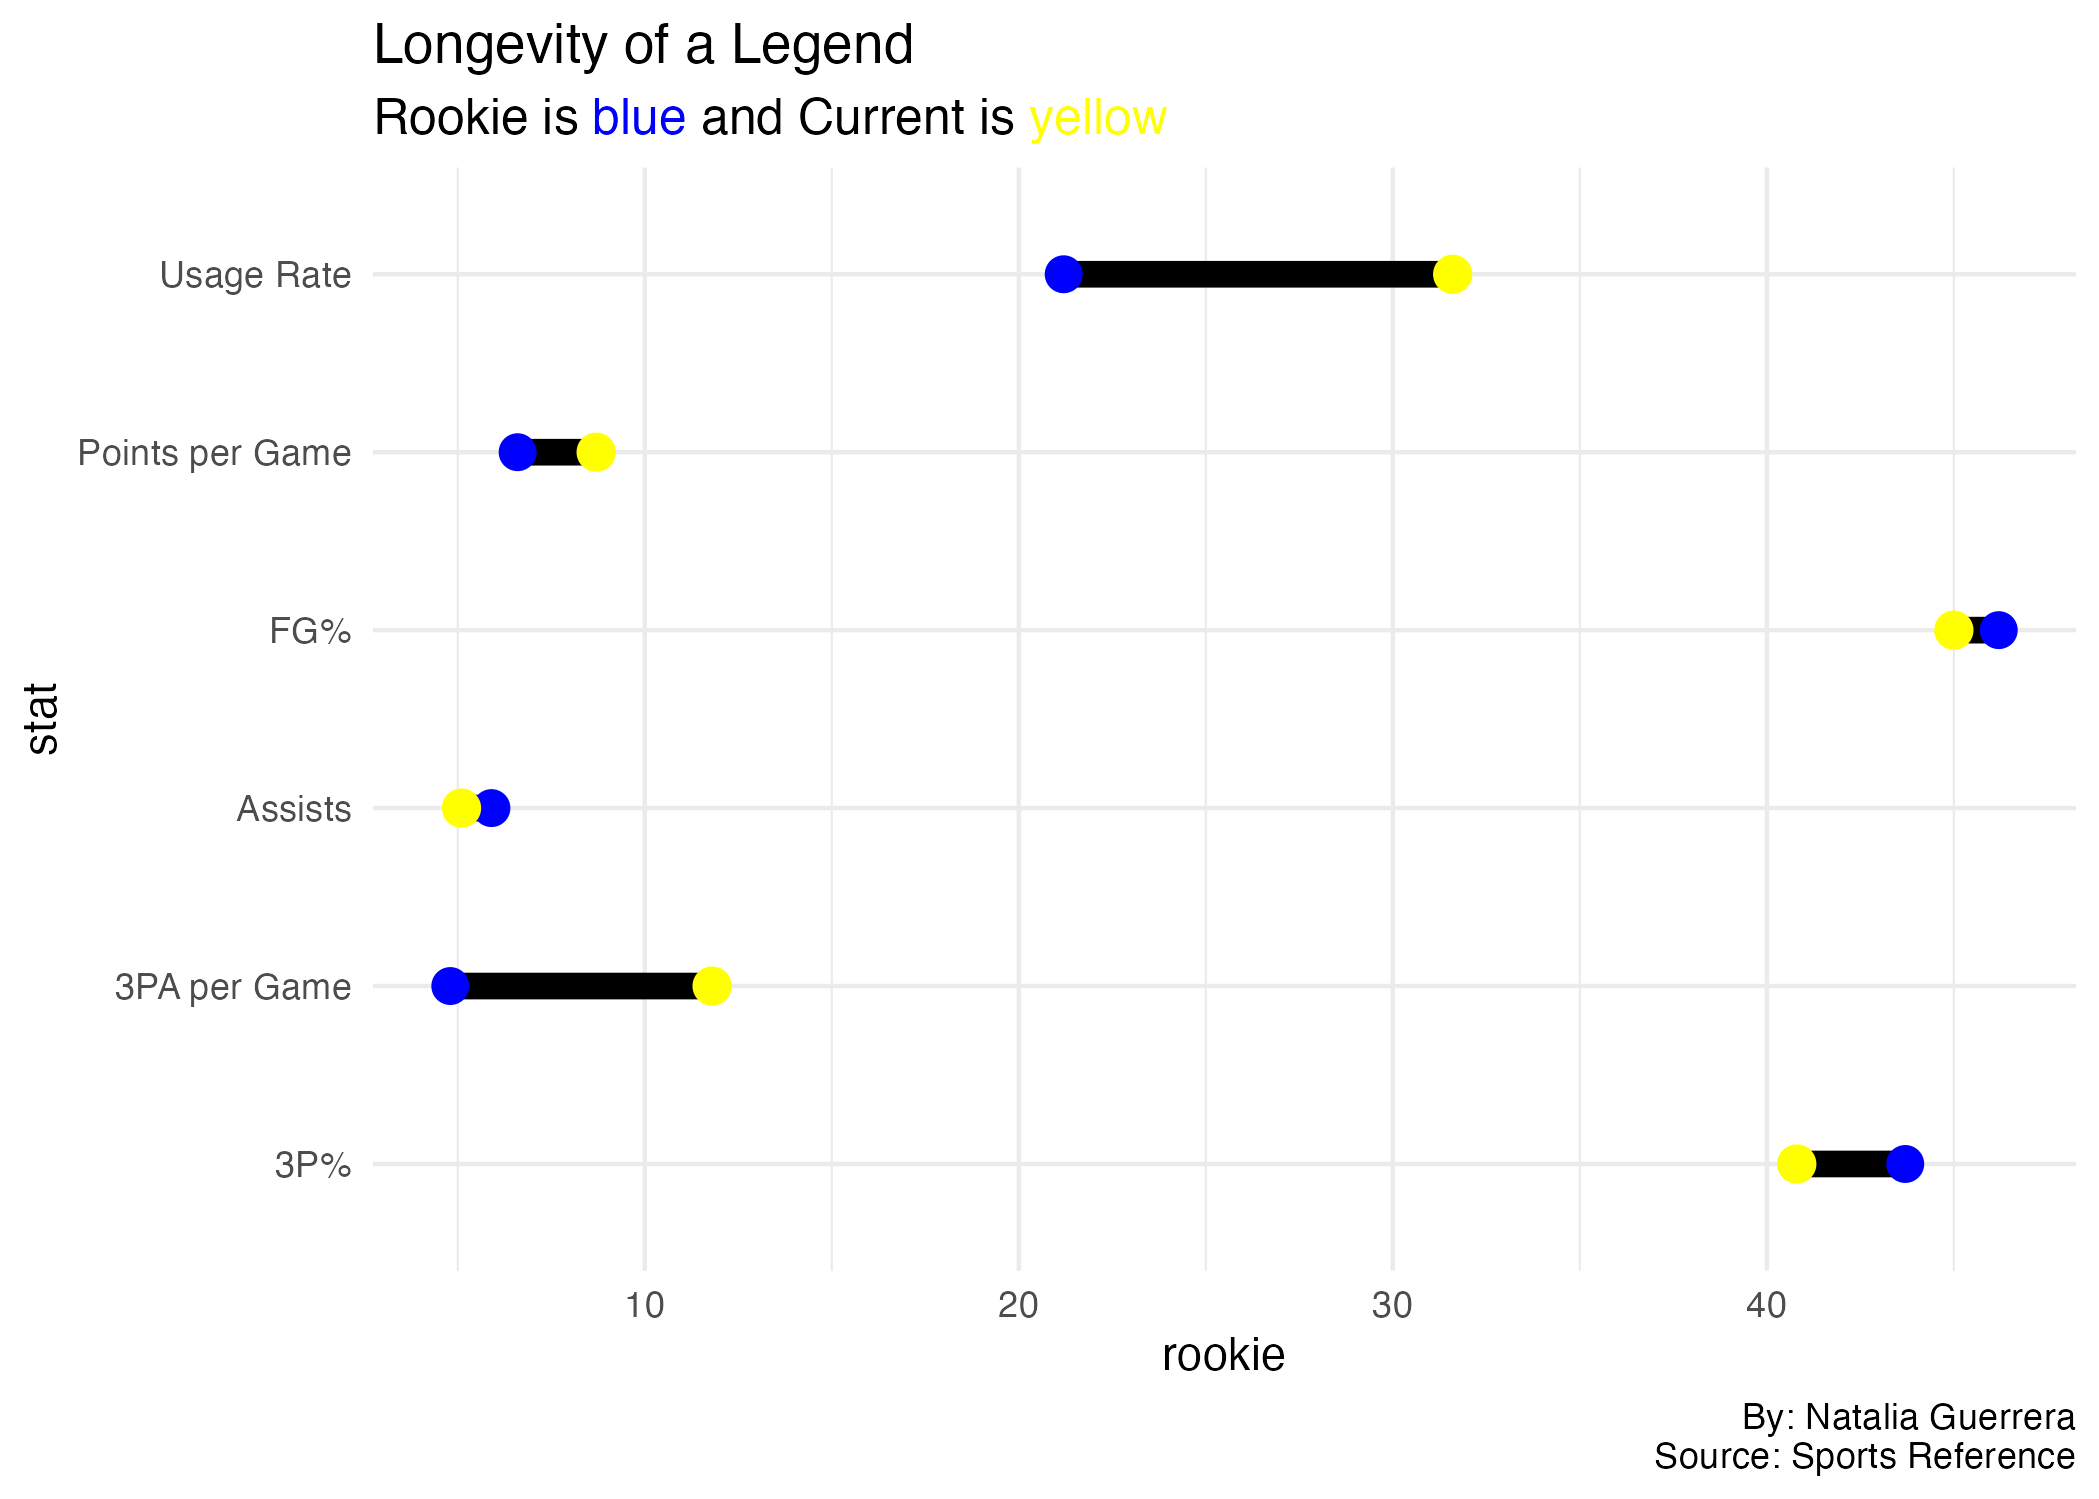
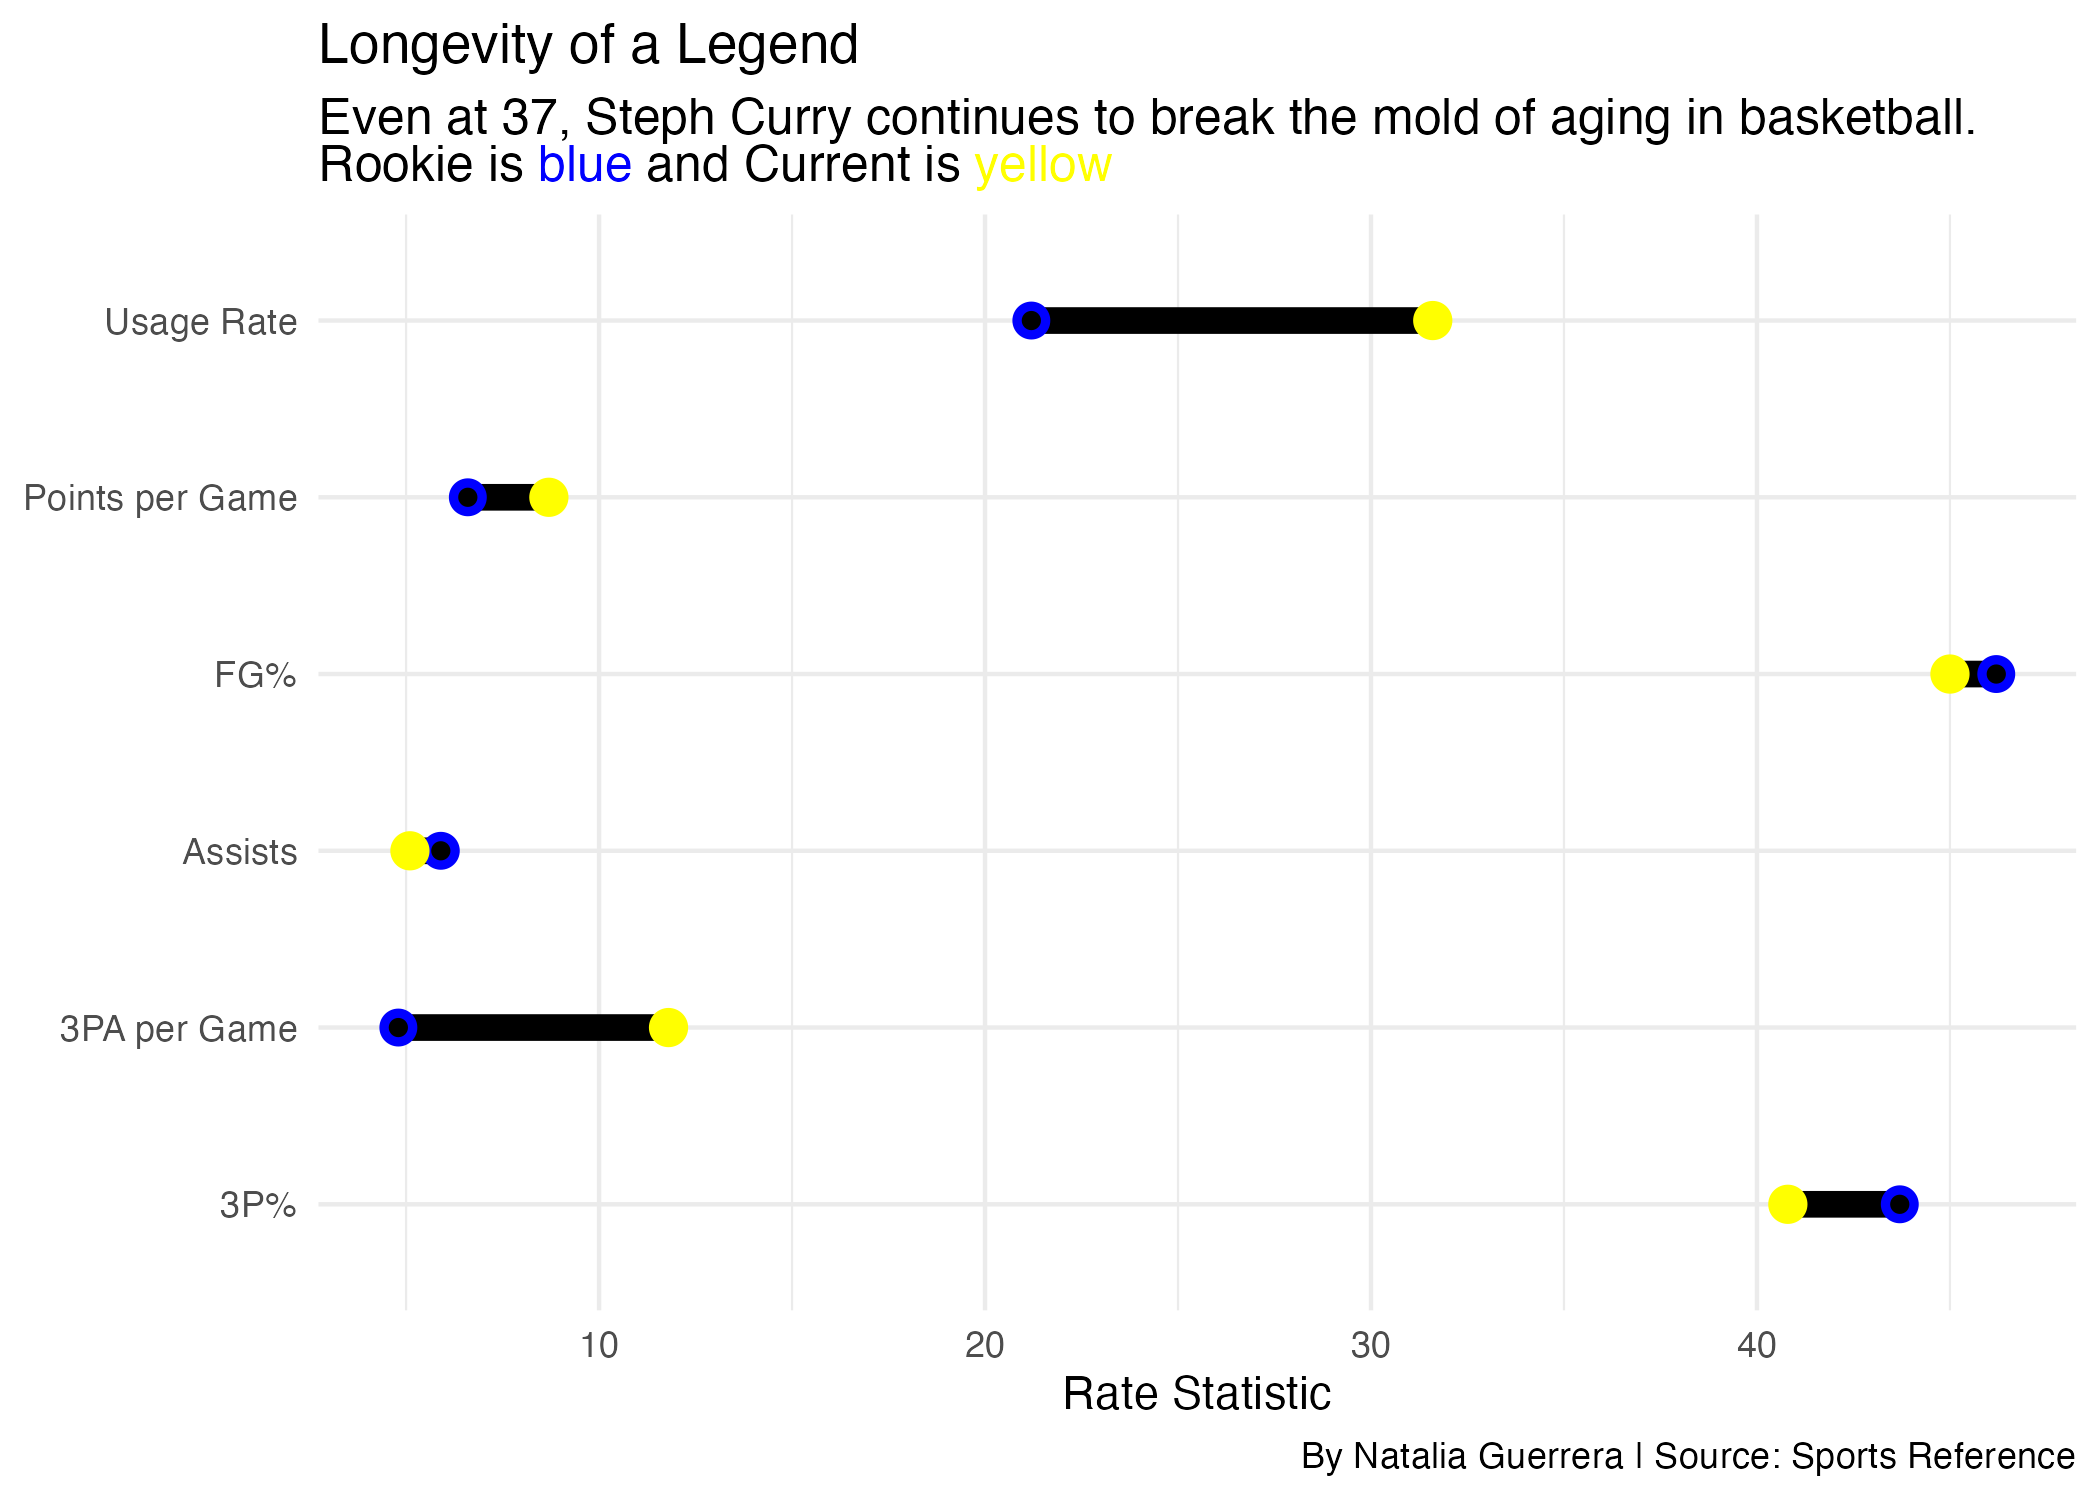
made change

diff --git a/posts/nfl-nba-combine-athlete/index.html b/posts/nfl-nba-combine-athlete/index.html
@@ -209,15 +209,18 @@ pre > code.sourceCode > span > a:first-child::before { text-decoration: underlin
 <span id="cb1-13"><a href="#cb1-13" aria-hidden="true" tabindex="-1"></a>                <span class="at">size =</span> <span class="dv">3</span>,</span>
 <span id="cb1-14"><a href="#cb1-14" aria-hidden="true" tabindex="-1"></a>                <span class="at">colour_x =</span> <span class="st">"blue"</span>,</span>
 <span id="cb1-15"><a href="#cb1-15" aria-hidden="true" tabindex="-1"></a>                <span class="at">colour_xend =</span> <span class="st">"yellow"</span>) <span class="sc">+</span></span>
-<span id="cb1-16"><a href="#cb1-16" aria-hidden="true" tabindex="-1"></a>  <span class="fu">labs</span>(</span>
-<span id="cb1-17"><a href="#cb1-17" aria-hidden="true" tabindex="-1"></a>    <span class="at">title =</span> <span class="st">"Longevity of a Legend"</span>,</span>
-<span id="cb1-18"><a href="#cb1-18" aria-hidden="true" tabindex="-1"></a>    <span class="at">subtitle =</span> <span class="st">"Rookie is &lt;span style='color:blue;'&gt;blue&lt;/span&gt; and Current is &lt;span style='color:yellow;'&gt;yellow&lt;/span&gt; "</span>,</span>
-<span id="cb1-19"><a href="#cb1-19" aria-hidden="true" tabindex="-1"></a>    <span class="at">caption =</span> <span class="st">"By: Natalia Guerrera</span><span class="sc">\n</span><span class="st">Source: Sports Reference"</span></span>
-<span id="cb1-20"><a href="#cb1-20" aria-hidden="true" tabindex="-1"></a>  ) <span class="sc">+</span></span>
-<span id="cb1-21"><a href="#cb1-21" aria-hidden="true" tabindex="-1"></a>  <span class="fu">theme_minimal</span>() <span class="sc">+</span></span>
-<span id="cb1-22"><a href="#cb1-22" aria-hidden="true" tabindex="-1"></a>  <span class="fu">theme</span>(</span>
-<span id="cb1-23"><a href="#cb1-23" aria-hidden="true" tabindex="-1"></a>    <span class="at">plot.subtitle =</span> <span class="fu">element_markdown</span>(<span class="at">size =</span> <span class="dv">12</span>)   </span>
-<span id="cb1-24"><a href="#cb1-24" aria-hidden="true" tabindex="-1"></a>  )</span></code><button title="Copy to Clipboard" class="code-copy-button"><i class="bi"></i></button></pre></div>
+<span id="cb1-16"><a href="#cb1-16" aria-hidden="true" tabindex="-1"></a>  <span class="fu">geom_point</span>() <span class="sc">+</span></span>
+<span id="cb1-17"><a href="#cb1-17" aria-hidden="true" tabindex="-1"></a>  <span class="fu">labs</span>(</span>
+<span id="cb1-18"><a href="#cb1-18" aria-hidden="true" tabindex="-1"></a>    <span class="at">title =</span> <span class="st">"Longevity of a Legend"</span>,</span>
+<span id="cb1-19"><a href="#cb1-19" aria-hidden="true" tabindex="-1"></a>    <span class="at">subtitle =</span> <span class="st">"Even at 37, Steph Curry continues to break the mold of aging in basketball.&lt;br&gt;</span></span>
+<span id="cb1-20"><a href="#cb1-20" aria-hidden="true" tabindex="-1"></a><span class="st">                Rookie is &lt;span style='color:blue;'&gt;blue&lt;/span&gt; and Current is &lt;span style='color:yellow;'&gt;yellow&lt;/span&gt;"</span>,</span>
+<span id="cb1-21"><a href="#cb1-21" aria-hidden="true" tabindex="-1"></a>    <span class="at">x =</span> <span class="st">"Rate Statistic"</span>,</span>
+<span id="cb1-22"><a href="#cb1-22" aria-hidden="true" tabindex="-1"></a>    <span class="at">y =</span> <span class="cn">NULL</span>,</span>
+<span id="cb1-23"><a href="#cb1-23" aria-hidden="true" tabindex="-1"></a>    <span class="at">caption =</span> <span class="st">"By Natalia Guerrera | Source: Sports Reference"</span></span>
+<span id="cb1-24"><a href="#cb1-24" aria-hidden="true" tabindex="-1"></a>  ) <span class="sc">+</span></span>
+<span id="cb1-25"><a href="#cb1-25" aria-hidden="true" tabindex="-1"></a>  <span class="fu">theme_minimal</span>() <span class="sc">+</span></span>
+<span id="cb1-26"><a href="#cb1-26" aria-hidden="true" tabindex="-1"></a>  <span class="fu">theme</span>(</span>
+<span id="cb1-27"><a href="#cb1-27" aria-hidden="true" tabindex="-1"></a>    <span class="at">plot.subtitle =</span> ggtext<span class="sc">::</span><span class="fu">element_markdown</span>(<span class="at">size =</span> <span class="dv">12</span>))</span></code><button title="Copy to Clipboard" class="code-copy-button"><i class="bi"></i></button></pre></div>
 </details>
 <div class="cell-output-display">
 <div>

diff --git a/index.html b/index.html
@@ -205,7 +205,7 @@ window.Quarto = {
 
 <div class="quarto-listing quarto-listing-container-default" id="listing-listing">
 <div class="list quarto-listing-default">
-<div class="quarto-post image-right" data-index="0" data-categories="nba,warriors,athlete" data-listing-date-sort="1744520400000" data-listing-file-modified-sort="1744689096826" data-listing-date-modified-sort="NaN" data-listing-reading-time-sort="5" data-listing-word-count-sort="893">
+<div class="quarto-post image-right" data-index="0" data-categories="nba,warriors,athlete" data-listing-date-sort="1744520400000" data-listing-file-modified-sort="1744759812761" data-listing-date-modified-sort="NaN" data-listing-reading-time-sort="5" data-listing-word-count-sort="930">
 <div class="thumbnail">
 <p><a href="./posts/nfl-nba-combine-athlete/index.html" class="no-external"></a></p><a href="./posts/nfl-nba-combine-athlete/index.html" class="no-external">
 <p><img loading="lazy" src="./posts/nfl-nba-combine-athlete/image.png" class="thumbnail-image"></p>
